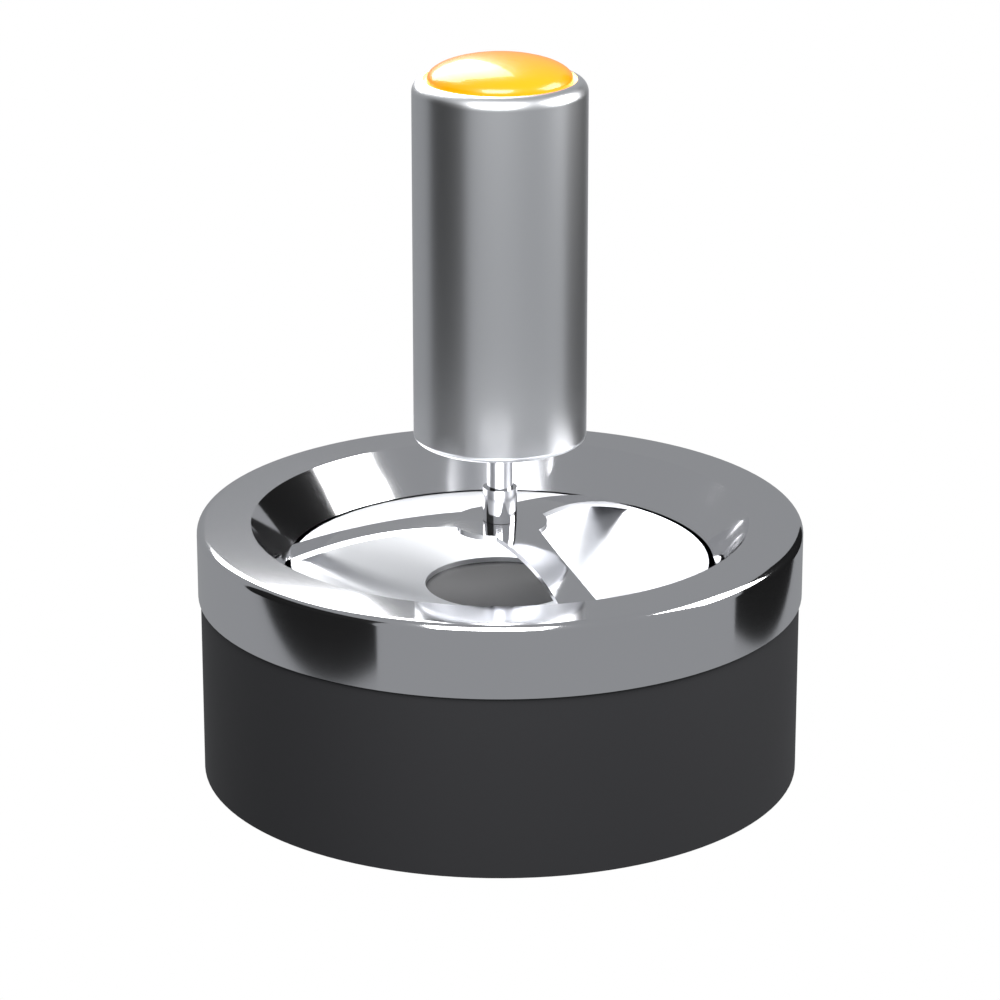
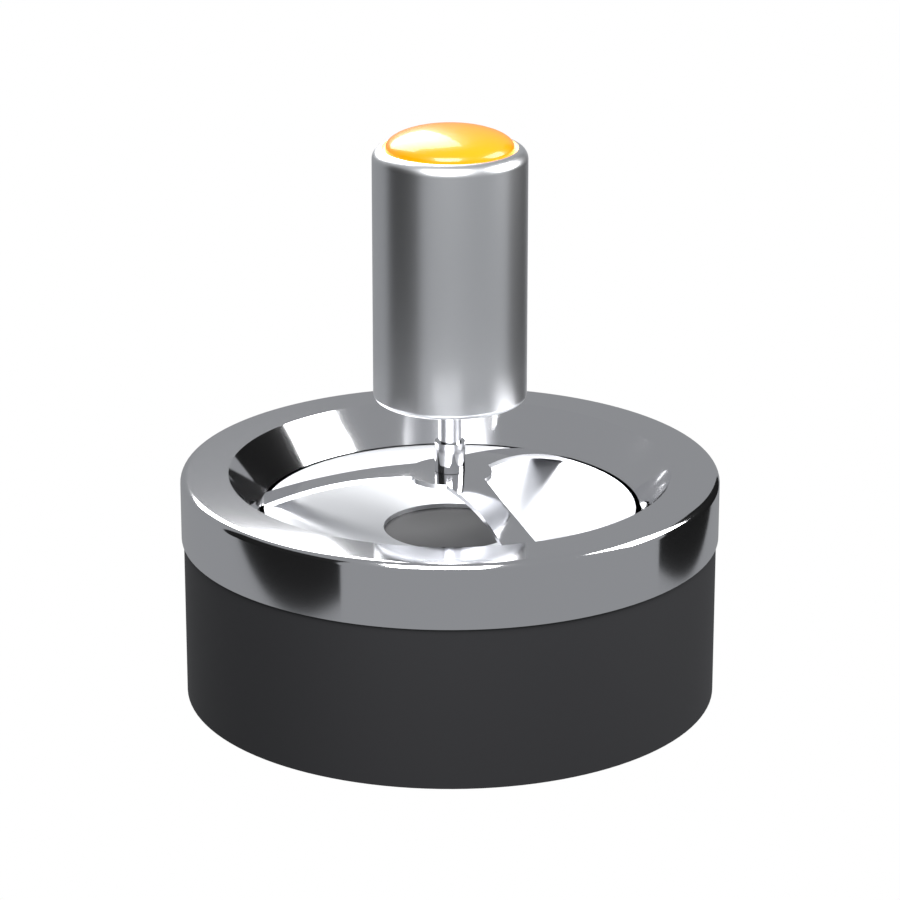
Knob concept: printed button variant 18 mm lower
Without the 20 mm deep body of a bought arcade button the printed cap
sits right above the board, so that knob is 72 instead of 90 mm high.
The render script treats objects named Hilfe... as framing only, which
lets two renders share the same scale; konzept_vergleich.png shows both.

diff --git a/hardware/freecad/konzept.py b/hardware/freecad/konzept.py
@@ -28,7 +28,10 @@ import ascher_value                # Referenzmodell des Aschers (Masse dort)
 VARIANT = os.environ.get("KONZEPT_VARIANTE", "original")
 # Der Original-Griff laesst sich nicht abziehen: der Knauf wird ueber den ganzen Griff gestuelpt
 # (Schacht mit Gummimuffe), seine Unterkante liegt auf Hoehe der Griff-Unterkante.
-KNOB_D, KNOB_H = 40.0, 90.0        # Hoehe mit Button
+# Hoehe mit Button: der gekaufte Button braucht ca. 20 mm Bautiefe unter der Platte, die gedruckte Kappe
+# sitzt direkt ueber Platine und Modul (nur Tasterhub und etwas Luft) - daher 18 mm niedriger
+KNOB_D = 40.0
+KNOB_H = 90.0 if VARIANT == "original" else 72.0
 BASE_H = 42.0                      # Unterteil (Alu-Optik): Schacht fuer den Griff + Zellenfach
 BAND_H = 3.0                       # Leuchtband (klar), nur beim Original-Button
 TOP_R = 3.0                        # Rundung oben

diff --git a/hardware/freecad/render_blender.py b/hardware/freecad/render_blender.py
@@ -70,6 +70,10 @@ pts = [o.matrix_world @ Vector(c) for o in objs for c in o.bound_box]
 lo = Vector((min(p.x for p in pts), min(p.y for p in pts), min(p.z for p in pts)))
 hi = Vector((max(p.x for p in pts), max(p.y for p in pts), max(p.z for p in pts)))
 center, size = (lo + hi) / 2, (hi - lo).length
+# Objekte "Hilfe..." zaehlen nur fuer den Bildausschnitt (gleicher Massstab fuer mehrere Bilder), unsichtbar
+for o in objs:
+    if o.name.startswith("Hilfe"):
+        o.hide_render = True
 
 # Studio wie beim Produktfoto: weisser Hintergrund ohne Boden, weiche Flaechenlichter,
 # dunkle Flaechen neben dem Modell (fuer die Kamera unsichtbar), damit Chrom nach Chrom aussieht
